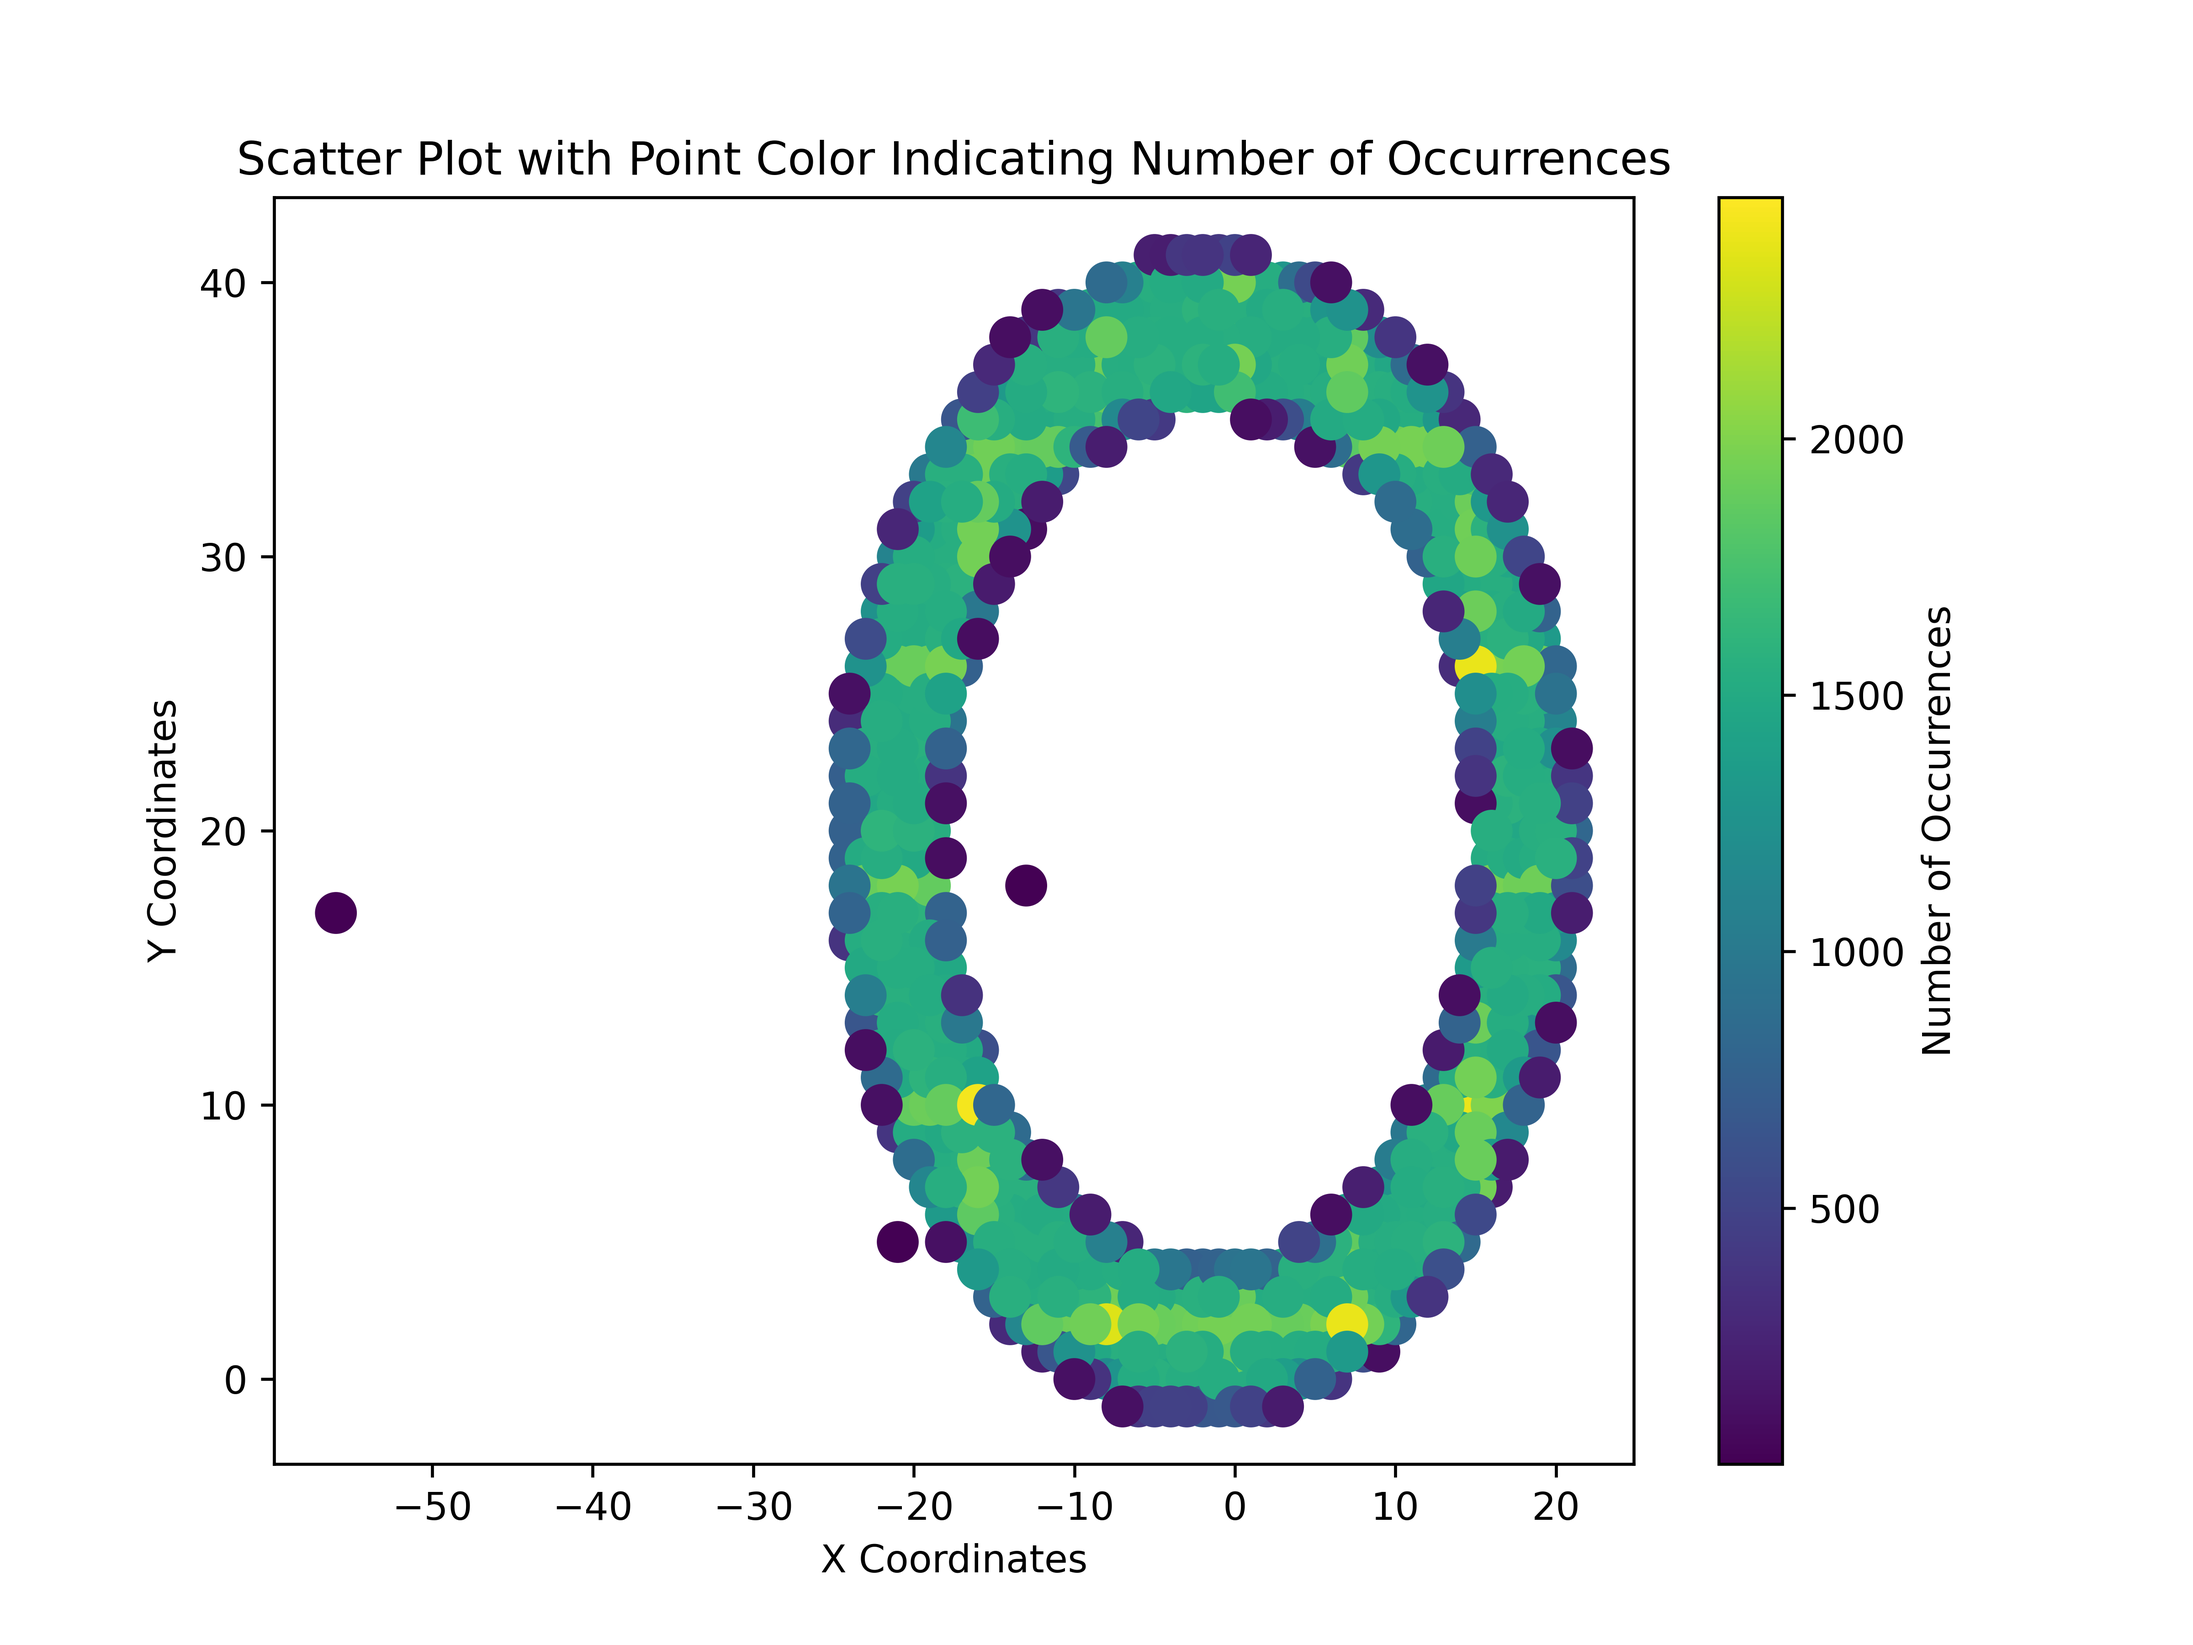
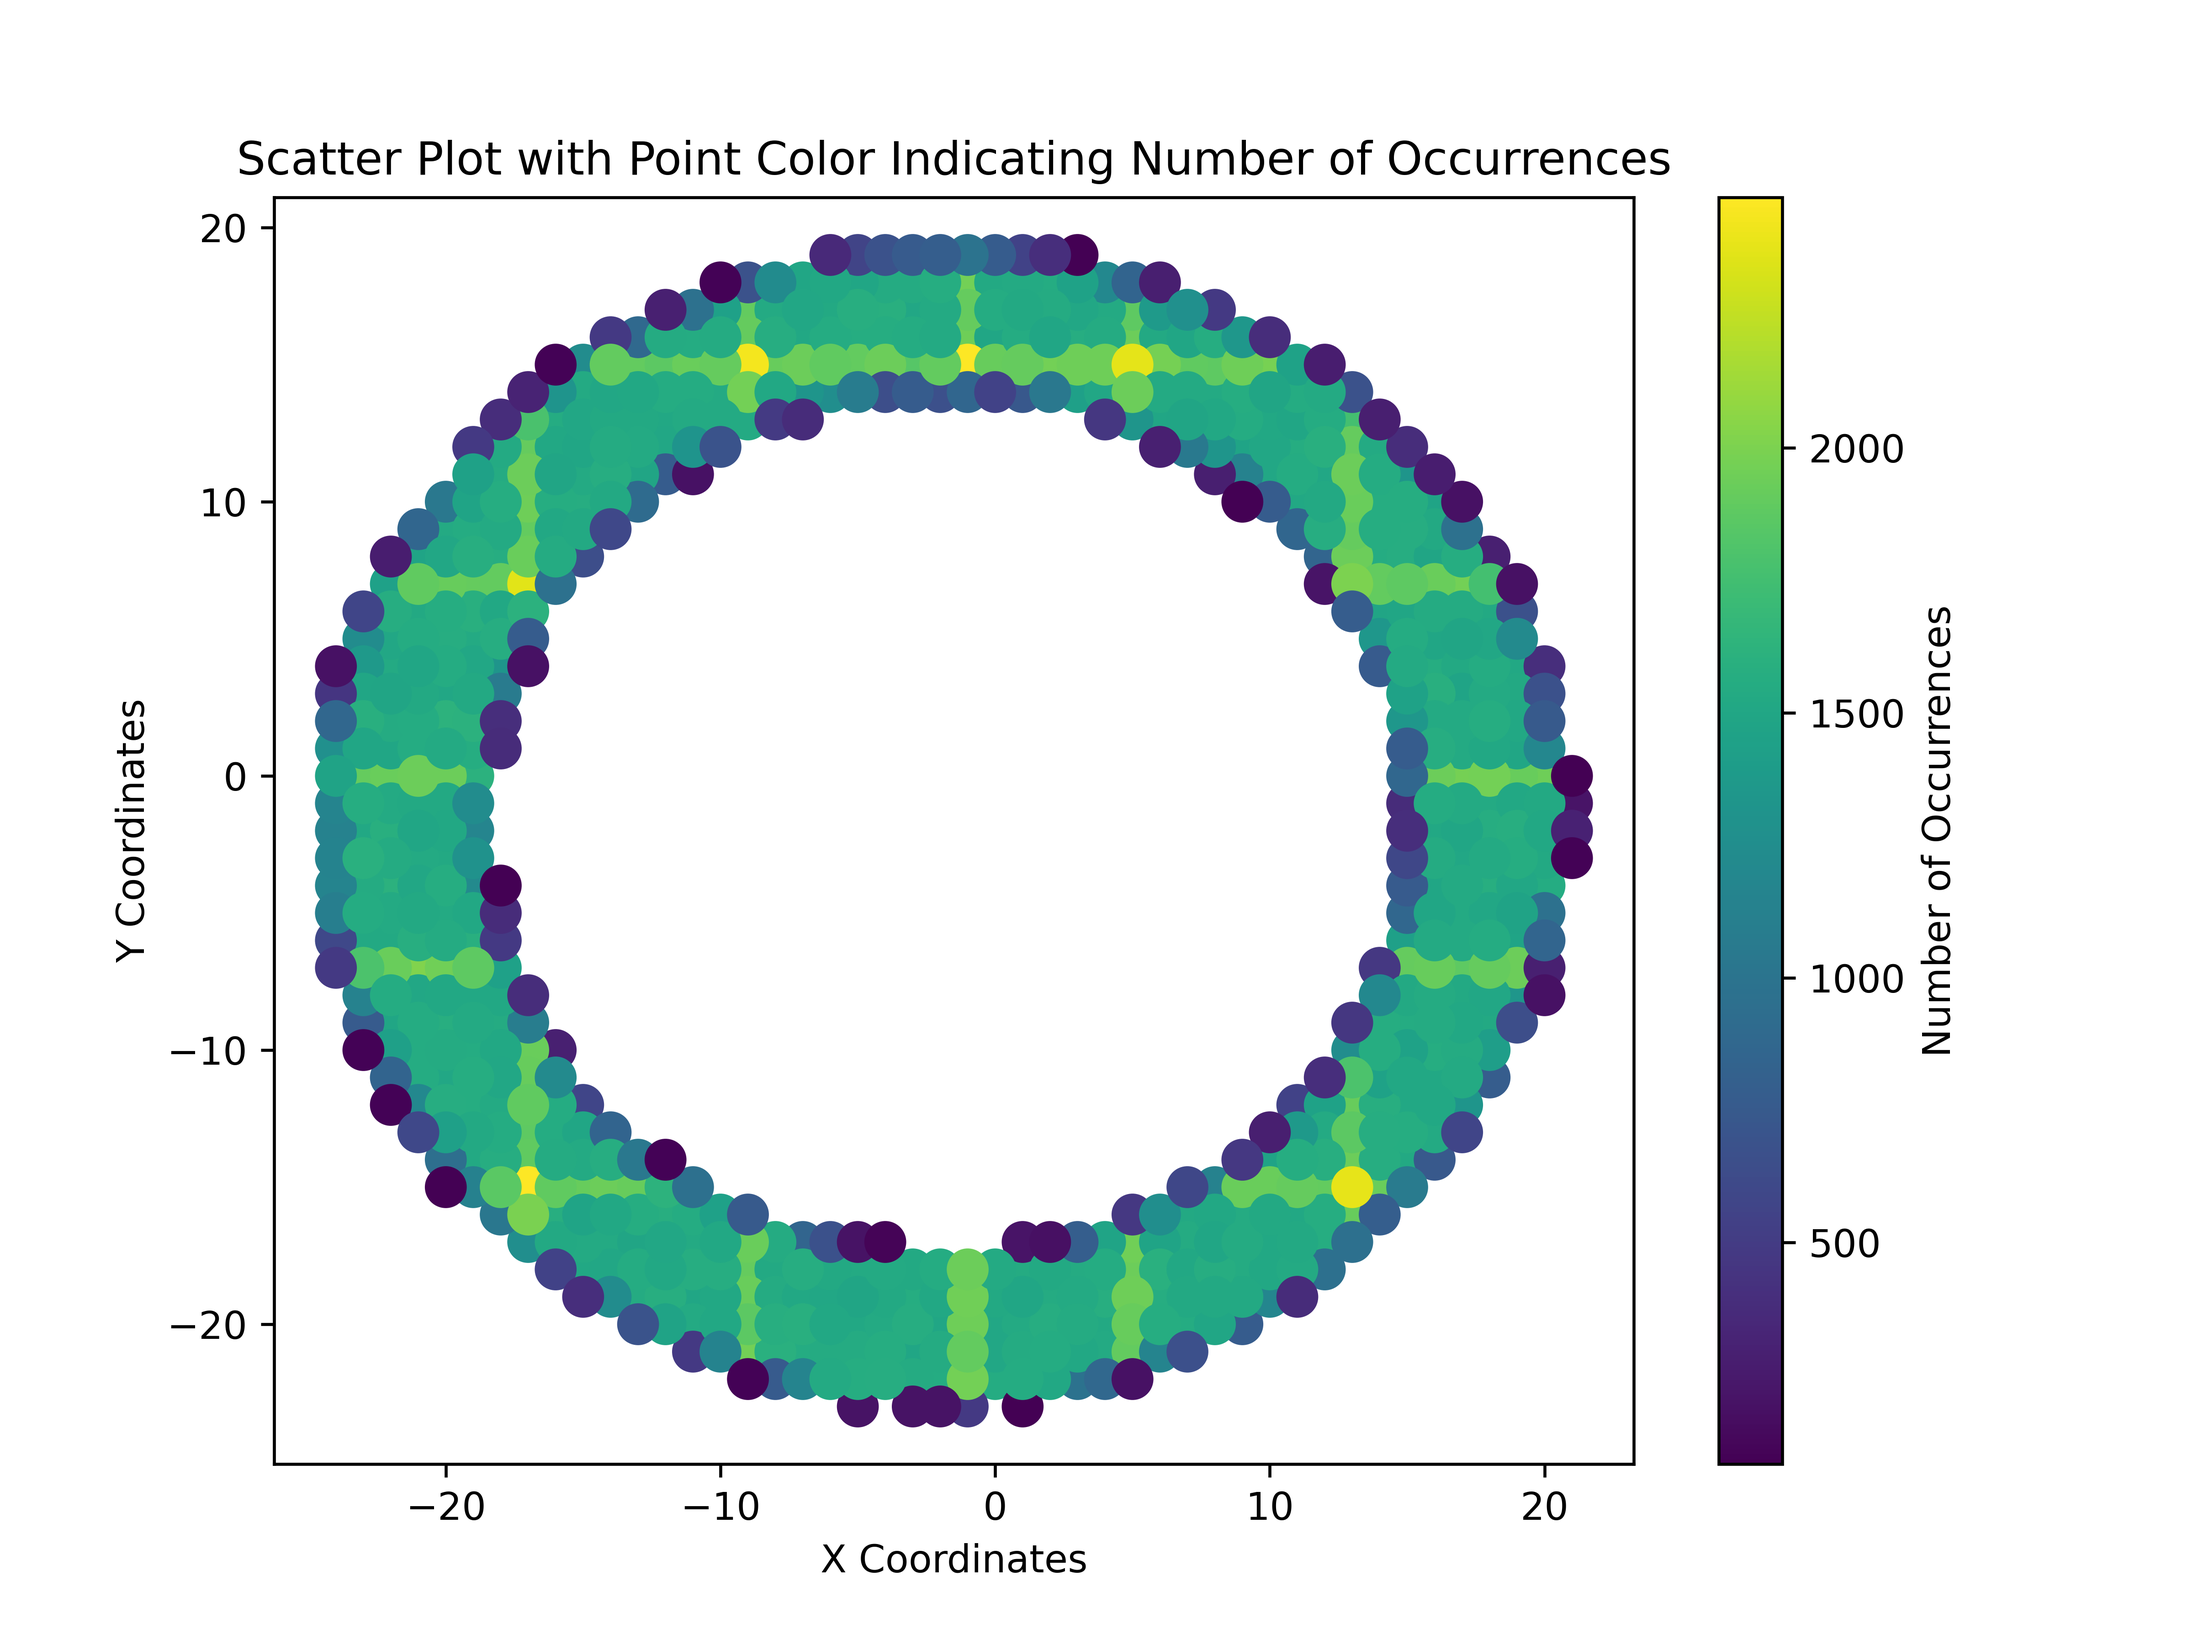
fixed narnia points

diff --git a/xy_distribution.py b/xy_distribution.py
@@ -70,24 +70,75 @@ import copy
 import orientation.get_orientation
 
 if __name__ == "__main__":
-    with open("subsampled_trajectories_r3/subsample_database_1000800_pairs_3_rules_1_length.pkl", "rb") as f:
+    with open("subsampled_trajectories_r1"
+    "/subsample_database_1000800_pairs_1_rules_1_length.pkl", "rb") as f:
         data = pickle.load(f)
-    plot_xy_from_trajectory_data_pkl(data, "xy_distribution.png")
-    # plot_xy_from_segments(segments, "xy_distribution_segments.png")
+    # plot_xy_from_trajectory_data_pkl(data, "xy_distribution.png")
 
     segments = []
     for trajectory_pair in data:
-        tp = copy.deepcopy(trajectory_pair)
-        # subtract circle center to 0 center the data
-        tp[0][0].position[0]-= orientation.get_orientation.CIRCLE_CENTER[0]
-        tp[0][0].position[1]-= orientation.get_orientation.CIRCLE_CENTER[1]
-        tp[0][1].position[0]-= orientation.get_orientation.CIRCLE_CENTER[0]
-        tp[0][1].position[1]-= orientation.get_orientation.CIRCLE_CENTER[1]
-        tp[1][0].position[0]-= orientation.get_orientation.CIRCLE_CENTER[0]
-        tp[1][0].position[1]-= orientation.get_orientation.CIRCLE_CENTER[1]
-        tp[1][1].position[0]-= orientation.get_orientation.CIRCLE_CENTER[0]
-        tp[1][1].position[1]-= orientation.get_orientation.CIRCLE_CENTER[1]
-        segments.append(tp[0])
+        # --- make every cell an independent copy -------------------------------
+        first_element_first_pair   = copy.deepcopy(trajectory_pair[0][0])
+        first_element_second_pair  = copy.deepcopy(trajectory_pair[0][1])
+        second_element_first_pair  = copy.deepcopy(trajectory_pair[1][0])
+        second_element_second_pair = copy.deepcopy(trajectory_pair[1][1])
+
+        # --- subtract the circle centre once for each distinct pair -----------
+        centre_x, centre_y = orientation.get_orientation.CIRCLE_CENTER
+        for state_action_pair in (
+            first_element_first_pair,
+            first_element_second_pair,
+            second_element_first_pair,
+            second_element_second_pair,
+        ):
+            state_action_pair.position[0] -= centre_x
+            state_action_pair.position[1] -= centre_y
+
+        # --- rebuild the two‑by‑two structure ---------------------------------
+        trajectory_pair_copy = (
+            (first_element_first_pair,  first_element_second_pair),
+            (second_element_first_pair, second_element_second_pair),
+        )
+
+        
+        if trajectory_pair_copy[0][0].position[0] // 25 < -30 or trajectory_pair_copy[0][0].position[1] // 25 < -30:
+            new_tp = copy.deepcopy(trajectory_pair)
+            print("Initial Position:", trajectory_pair[0][0].position, "\n", trajectory_pair_copy[0][0].position[0] // 25, "\n", trajectory_pair_copy[0][0].position[1] // 25)
+            print("Post Centering Positions:", trajectory_pair_copy[0][0].position)
+            print("CIRCLE_CENTER:", orientation.get_orientation.CIRCLE_CENTER)
+            print("Math:", f"{new_tp[0][0].position[0]} - {orientation.get_orientation.CIRCLE_CENTER[0]} =", new_tp[0][0].position[0]- orientation.get_orientation.CIRCLE_CENTER[0], "\n",
+                  f"{new_tp[0][0].position[1]} - {orientation.get_orientation.CIRCLE_CENTER[1]} =", new_tp[0][0].position[1]- orientation.get_orientation.CIRCLE_CENTER[1])
+            new_tp[0][0].position[0]-=orientation.get_orientation.CIRCLE_CENTER[0]
+            new_tp[0][0].position[1]-=orientation.get_orientation.CIRCLE_CENTER[1]
+            print("New Position:", new_tp[0][0].position)
+            print("\n---\n")
+
+        segments.append(trajectory_pair_copy[0])
+
+    # for trajectory_pair in data:
+    #     tp = copy.deepcopy(trajectory_pair)
+    #     # subtract circle center to 0 center the data
+    #     tp[0][0].position[0]-= orientation.get_orientation.CIRCLE_CENTER[0]
+    #     tp[0][0].position[1]-= orientation.get_orientation.CIRCLE_CENTER[1]
+    #     tp[0][1].position[0]-= orientation.get_orientation.CIRCLE_CENTER[0]
+    #     tp[0][1].position[1]-= orientation.get_orientation.CIRCLE_CENTER[1]
+    #     tp[1][0].position[0]-= orientation.get_orientation.CIRCLE_CENTER[0]
+    #     tp[1][0].position[1]-= orientation.get_orientation.CIRCLE_CENTER[1]
+    #     tp[1][1].position[0]-= orientation.get_orientation.CIRCLE_CENTER[0]
+    #     tp[1][1].position[1]-= orientation.get_orientation.CIRCLE_CENTER[1]
+
+    #     if tp[0][0].position[0] // 25 < -30 or tp[0][0].position[1] // 25 < -30:
+    #         new_tp = copy.deepcopy(trajectory_pair)
+    #         print("Initial Position:", trajectory_pair[0][0].position, "\n", tp[0][0].position[0] // 25, "\n", tp[0][0].position[1] // 25)
+    #         print("Post Centering Positions:", tp[0][0].position)
+    #         print("CIRCLE_CENTER:", orientation.get_orientation.CIRCLE_CENTER)
+    #         print("Math:", f"{new_tp[0][0].position[0]} - {orientation.get_orientation.CIRCLE_CENTER[0]} =", new_tp[0][0].position[0]- orientation.get_orientation.CIRCLE_CENTER[0], "\n",
+    #               f"{new_tp[0][0].position[1]} - {orientation.get_orientation.CIRCLE_CENTER[1]} =", new_tp[0][0].position[1]- orientation.get_orientation.CIRCLE_CENTER[1])
+    #         new_tp[0][0].position[0]-=orientation.get_orientation.CIRCLE_CENTER[0]
+    #         new_tp[0][0].position[1]-=orientation.get_orientation.CIRCLE_CENTER[1]
+    #         print("New Position:", new_tp[0][0].position)
+    #         print("\n---\n")
+    #     segments.append(tp[0])
     
     plot_xy_from_segments(segments, f"xy_distribution_post_centering.png")
     

diff --git a/reward.py b/reward.py
@@ -171,25 +171,37 @@ class TrajectoryDataset(Dataset):
                 self.trajectory_pairs = pickle.load(f)
             segments = []
             for trajectory_pair in self.trajectory_pairs:
-                tp = copy.deepcopy(trajectory_pair)
-                # subtract circle center to 0 center the data
-                tp[0][0].position[0]-= orientation.get_orientation.CIRCLE_CENTER[0]
-                tp[0][0].position[1]-= orientation.get_orientation.CIRCLE_CENTER[1]
-                tp[0][1].position[0]-= orientation.get_orientation.CIRCLE_CENTER[0]
-                tp[0][1].position[1]-= orientation.get_orientation.CIRCLE_CENTER[1]
-                tp[1][0].position[0]-= orientation.get_orientation.CIRCLE_CENTER[0]
-                tp[1][0].position[1]-= orientation.get_orientation.CIRCLE_CENTER[1]
-                tp[1][1].position[0]-= orientation.get_orientation.CIRCLE_CENTER[0]
-                tp[1][1].position[1]-= orientation.get_orientation.CIRCLE_CENTER[1]
-                segments.append(tp[0])
+                # --- make every cell an independent copy -------------------------------
+                first_element_first_pair   = copy.deepcopy(trajectory_pair[0][0])
+                first_element_second_pair  = copy.deepcopy(trajectory_pair[0][1])
+                second_element_first_pair  = copy.deepcopy(trajectory_pair[1][0])
+                second_element_second_pair = copy.deepcopy(trajectory_pair[1][1])
+
+                # --- subtract the circle centre once for each distinct pair -----------
+                centre_x, centre_y = orientation.get_orientation.CIRCLE_CENTER
+                for state_action_pair in (
+                    first_element_first_pair,
+                    first_element_second_pair,
+                    second_element_first_pair,
+                    second_element_second_pair,
+                ):
+                    state_action_pair.position[0] -= centre_x
+                    state_action_pair.position[1] -= centre_y
+
+                # --- rebuild the two‑by‑two structure ---------------------------------
+                trajectory_pair_copy = (
+                    (first_element_first_pair,  first_element_second_pair),
+                    (second_element_first_pair, second_element_second_pair),
+                )
+                segments.append(trajectory_pair_copy[0])
 
                 # Flatten and cast to float32 for speed
-                self.first_trajectories.append(np.asarray(tp[0], dtype=np.float32).ravel())
-                self.second_trajectories.append(np.asarray(tp[1], dtype=np.float32).ravel())
-                self.labels.append(tp[2])
-                self.score1.append(tp[3])
-                self.score2.append(tp[4])
-            
+                self.first_trajectories.append(np.asarray(trajectory_pair_copy[0], dtype=np.float32).ravel())
+                self.second_trajectories.append(np.asarray(trajectory_pair_copy[1], dtype=np.float32).ravel())
+                self.labels.append(trajectory_pair_copy[2])
+                self.score1.append(trajectory_pair_copy[3])
+                self.score2.append(trajectory_pair_copy[4])
+
             plot_xy_from_segments(segments, f"{file_path}xy_distribution.png")
 
             self.first_trajectories = torch.from_numpy(np.stack(self.first_trajectories, axis=0))

diff --git a/segment.py b/segment.py
@@ -1,3 +1,7 @@
+import copy
+from typing import Any
+
+
 NUM_OBSERVATIONS = 5
 NUM_ACTIONS = 1
 POSITION_DIMENSIONS = 2
@@ -47,3 +51,11 @@ class StateActionPair:
 
     def __len__(self):
         return NUM_OBSERVATIONS + NUM_ACTIONS + POSITION_DIMENSIONS
+    
+    def __deepcopy__(self, memo: dict[str, Any]):
+        return StateActionPair(
+            copy.deepcopy(self.radars, memo),
+            copy.deepcopy(self.action, memo),
+            copy.deepcopy(self.position, memo),
+            self.alive,
+        )

diff --git a/database_truncate.py b/database_truncate.py
@@ -9,7 +9,7 @@ import rules
 from itertools import combinations
 from agent import show_database_segments, get_buckets
 
-DATABASE_DIR = './databases/database_gargantuar_1_length_backup/'
+DATABASE_DIR = './databases/database_gargantuar_1_length/'
 NEW_SIZE = 2000000
 print(f"Database directory: {DATABASE_DIR}")
 
